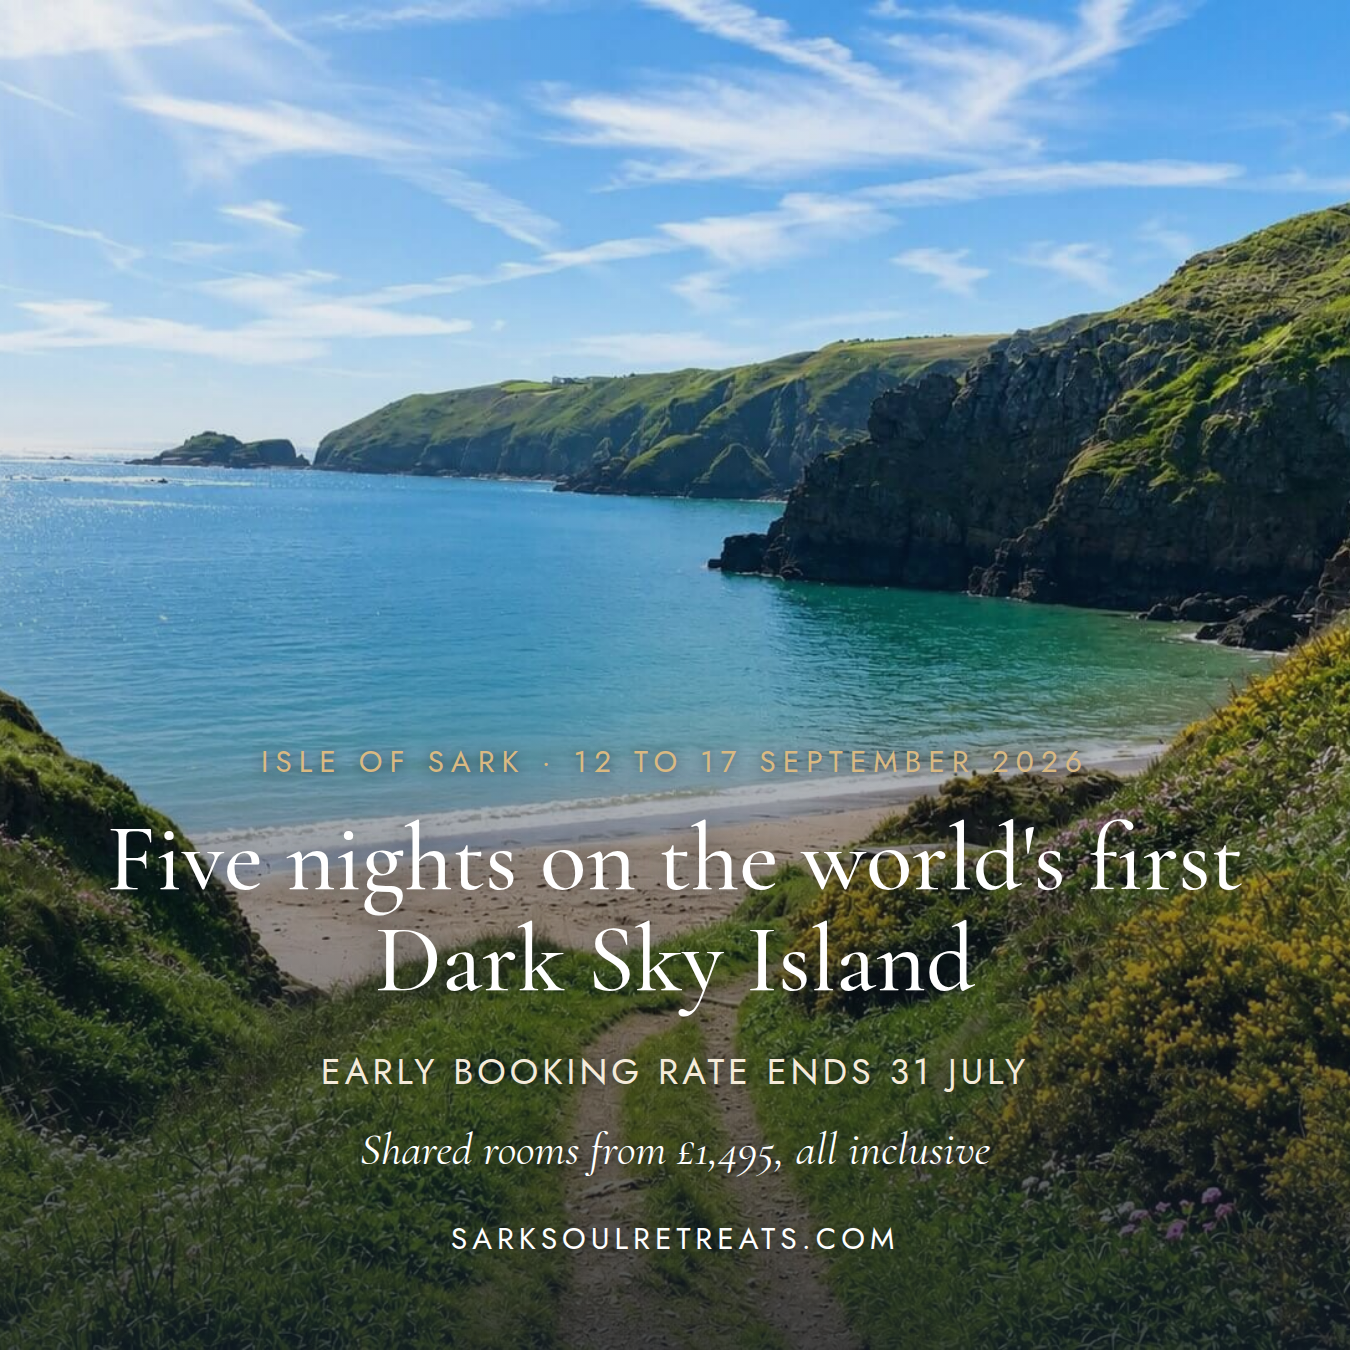
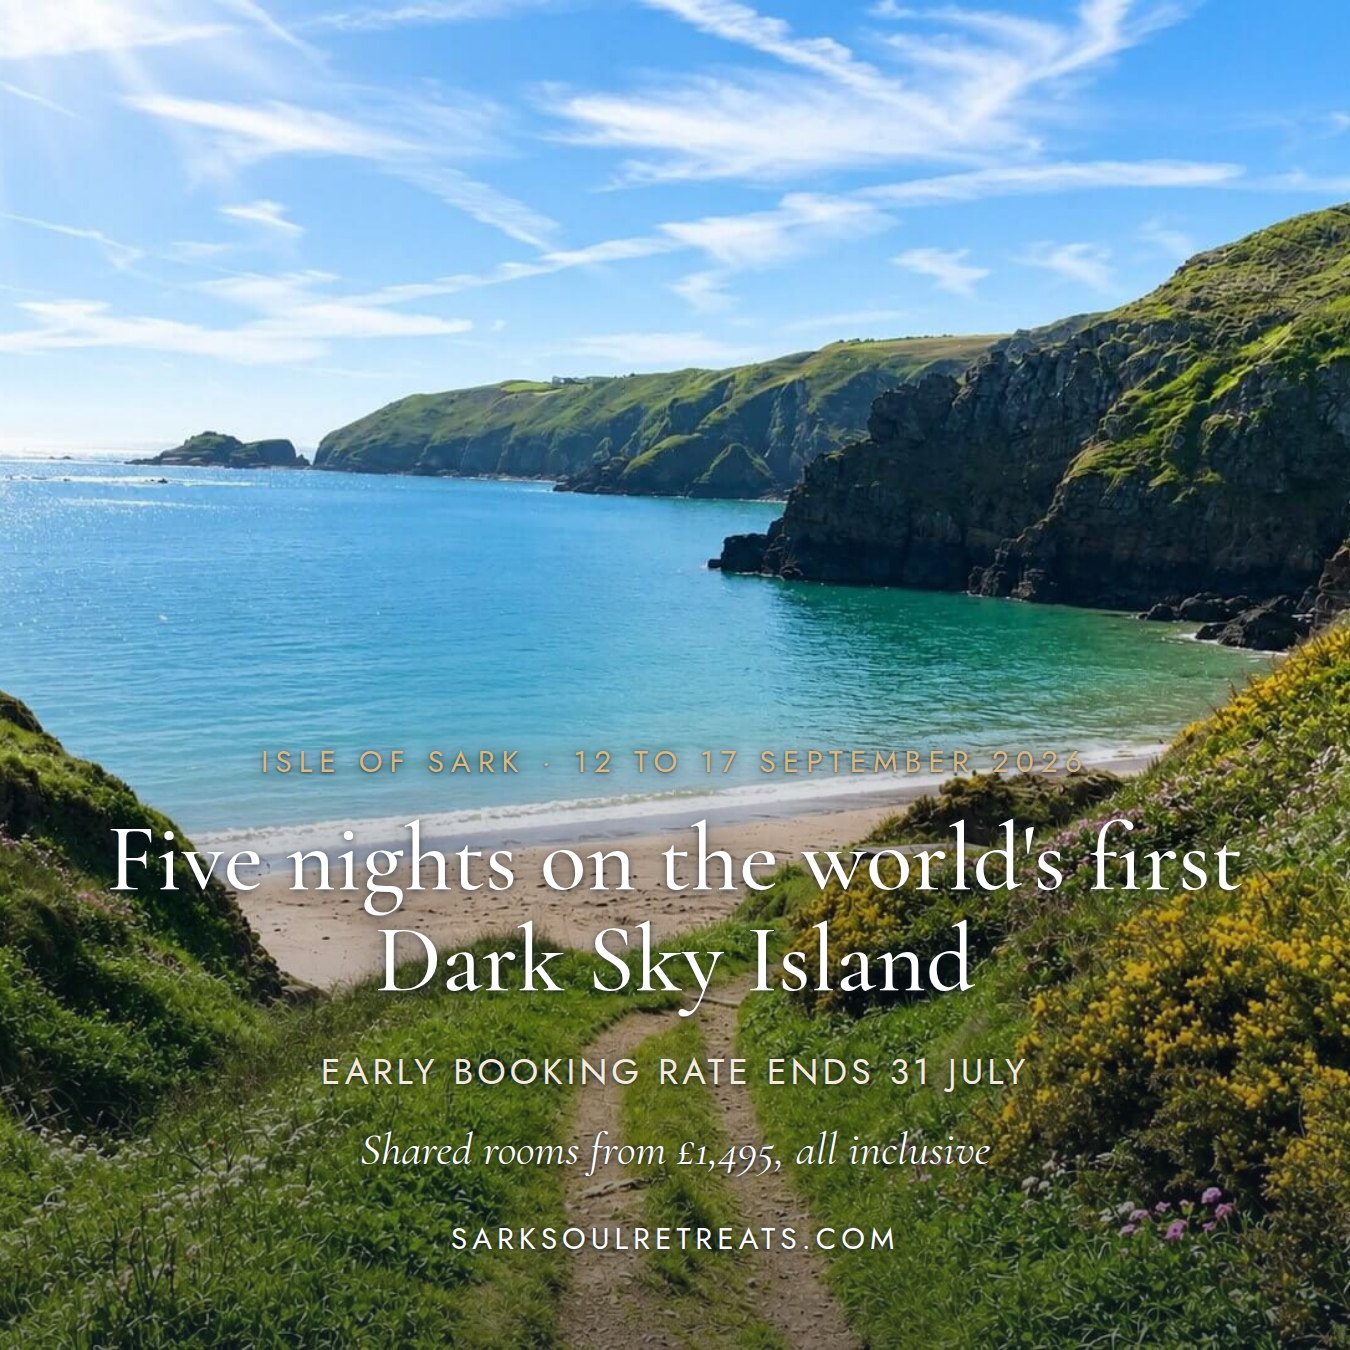
Brighter deadline post graphic, and the journey line reads an hour from the UK and Europe
The deadline post loses most of its scrim, matching the cover fix, so the
beach path keeps its true colour with text shadows carrying legibility.
Per John, the homepage hero line, homepage meta description, the Channel
Islands column and the why sark meta description now say an hour from
the UK and Europe. Meta descriptions stay within the length guardrail.

diff --git a/src/content/pages/why-sark.md b/src/content/pages/why-sark.md
@@ -1,7 +1,7 @@
 ---
 title: Why Sark?
 metaTitle: Why Sark Island Is Perfect for a Yoga Retreat
-metaDescription: An honest, first-hand guide to five nights on a car-free island, an hour from the UK, a world apart. From the ferry over to the last morning.
+metaDescription: An honest, first-hand guide to five nights on a car-free island, an hour from the UK and Europe, a world apart. From the ferry over to the last morning.
 slug: why-sark
 heroEyebrow: Isle of Sark · Channel Islands
 heroTitle: Why Sark?